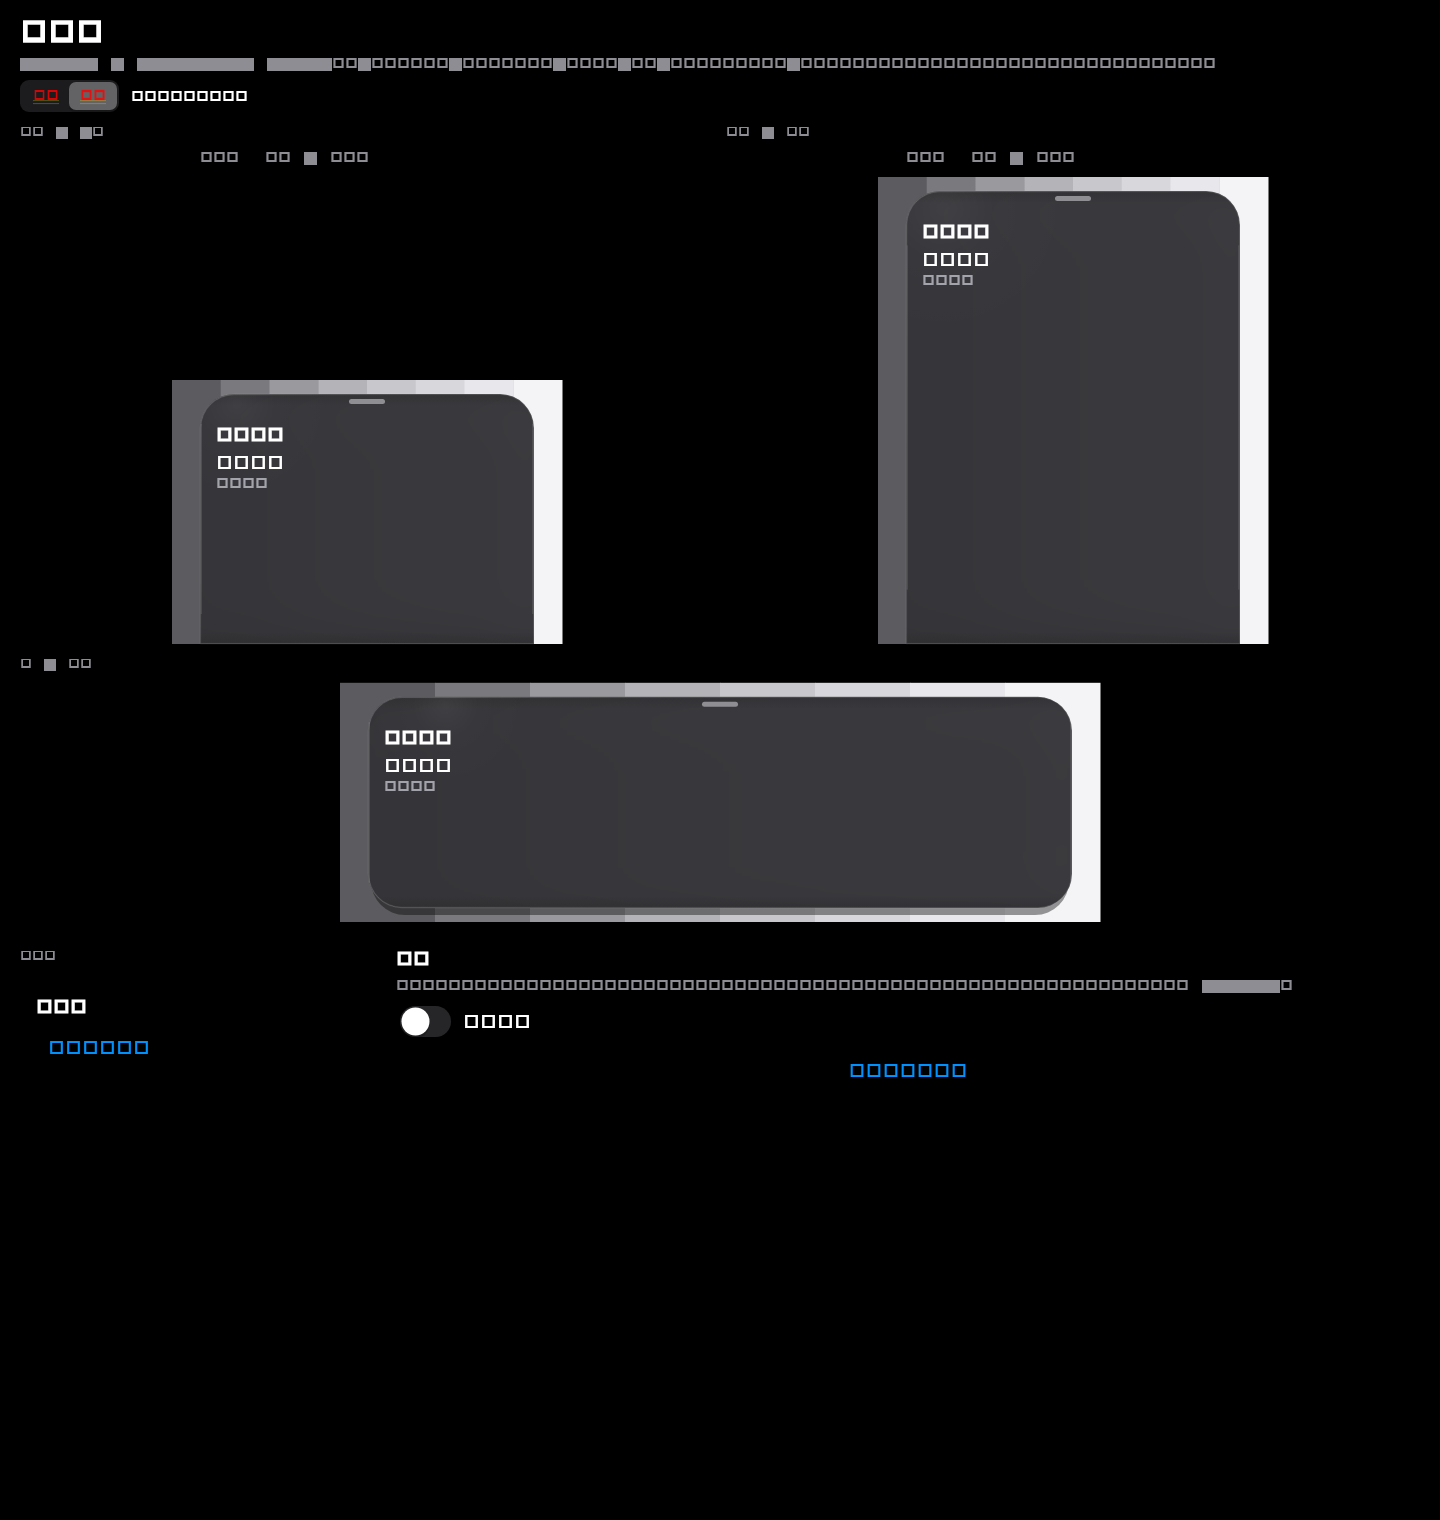
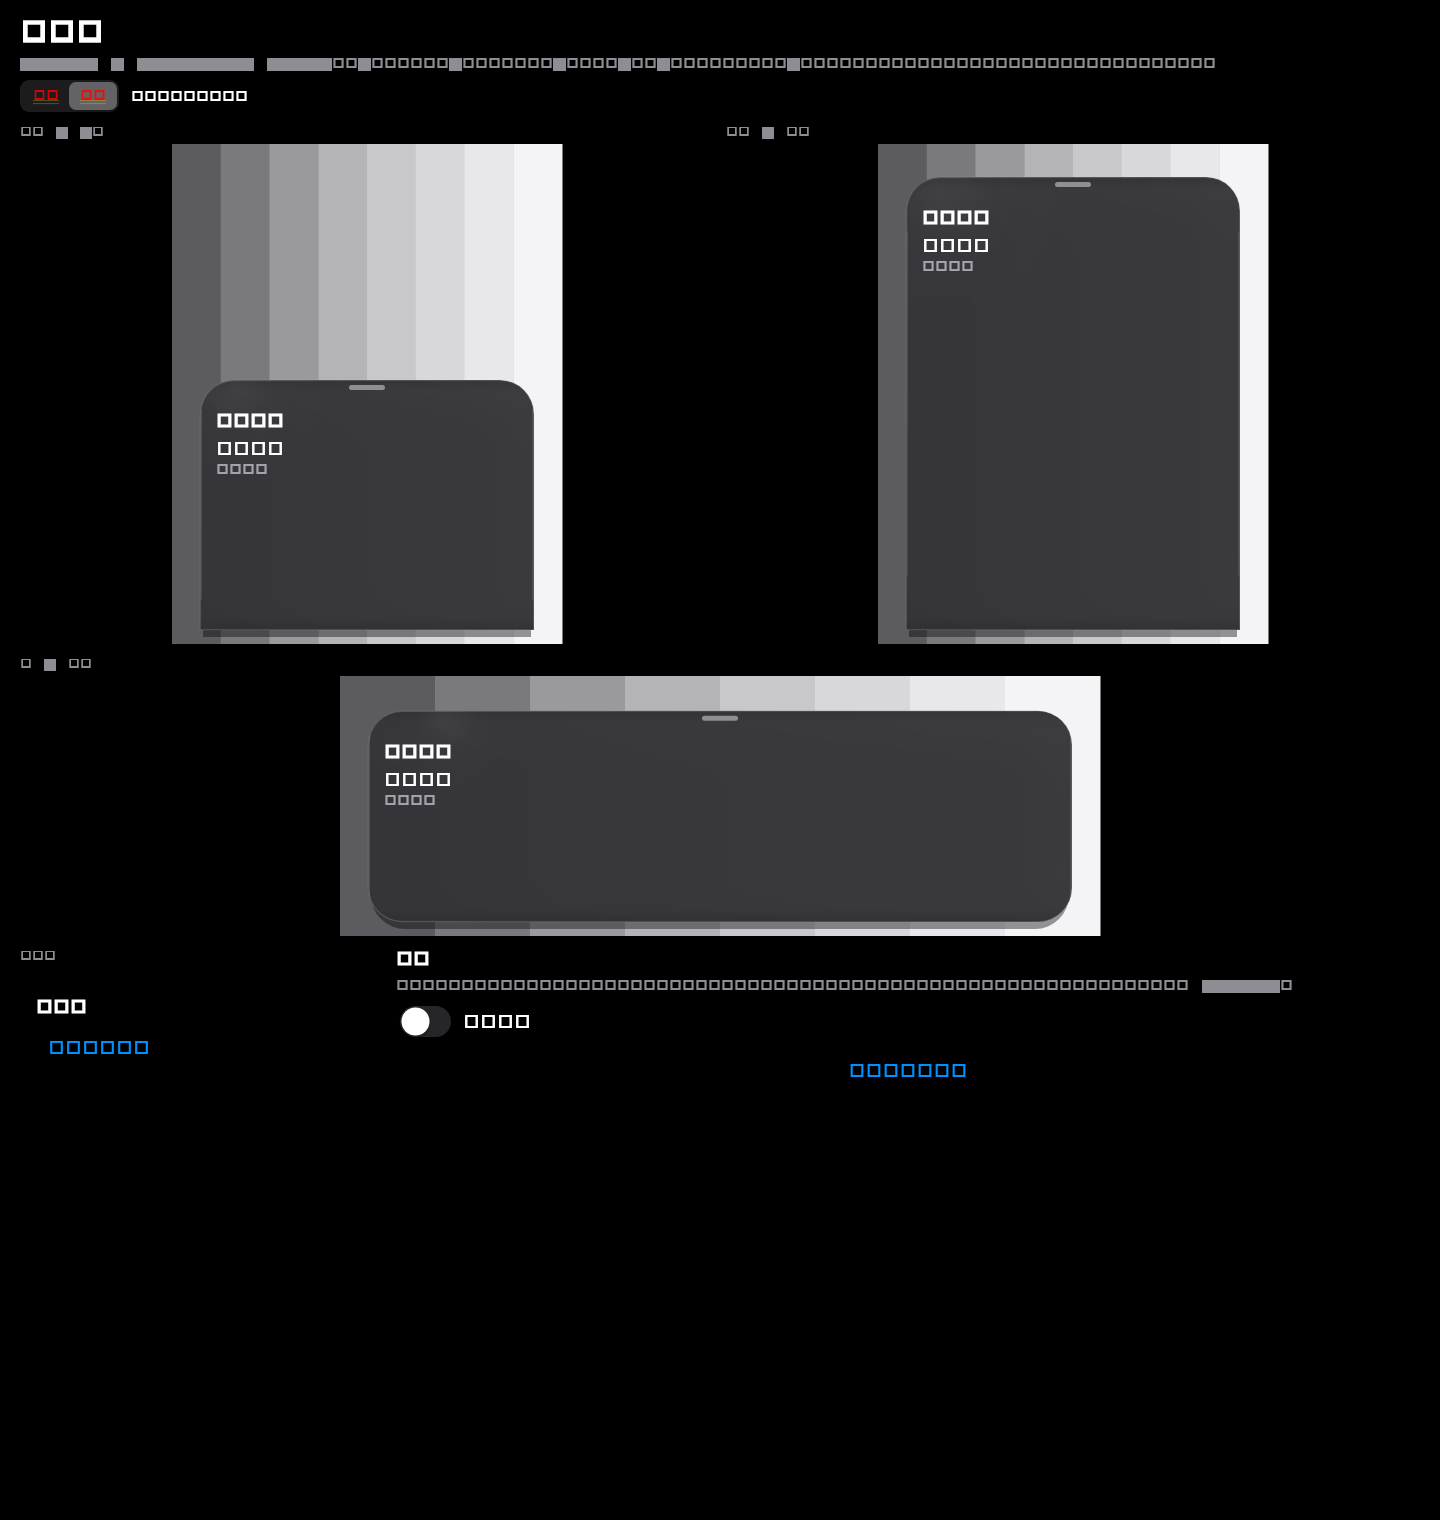
按材质页 Thick 的 Stack 装配工作表
条纹作为同一个 Stack 的底层，GlassSurface thick 直接盖在上面。去掉中间的定位裁剪和不透明命中层，弹出的工作表也把条纹画在这条路由的 Stack 底。

diff --git a/example/lib/pages/sheets_page.dart b/example/lib/pages/sheets_page.dart
@@ -416,54 +416,46 @@ class _Specimen extends StatelessWidget {
           safeArea: safeArea,
           keyboardInset: 0,
         );
-        final height = metrics.heightFor(detent);
-        final natural = Rect.fromLTWH(
-          metrics.left,
-          constraints.maxHeight - metrics.bottomOffset - height,
+        final sheetW = mathMin(
           metrics.width,
-          height,
+          mathMax(0, constraints.maxWidth - _stripePadH * 2),
         );
-        // Materials Thick is a short card inset 28×14 inside its stripe
-        // field. A sheet that covers the field edge to edge reads as a
-        // solid plate: the sharp bands stop, and Thick's veil hides the
-        // rest. Pull the specimen in until that same frame fits.
-        final platter = _insetPlatterToFitFrame(
-          natural,
-          Size(constraints.maxWidth, constraints.maxHeight),
+        final sheetH = mathMin(
+          metrics.heightFor(detent),
+          mathMax(0, constraints.maxHeight - _stripePadV * 2),
         );
-        final field = _stripeFieldAround(
-          platter,
-          attachedToBottom: metrics.attachedToBottom,
-        );
+        final side = (constraints.maxWidth - sheetW) / 2;
+        // Materials Thick swatch: stripes are the stack's bottom child,
+        // GlassSurface sits in the padding directly above them. No opaque
+        // box and no clip between the two.
         return Stack(
           key: stageKey,
           fit: StackFit.expand,
-          clipBehavior: Clip.none,
           children: [
-            Positioned.fromRect(
-              rect: field,
-              child: const CustomPaint(painter: _SheetStripePainter()),
+            CustomPaint(
+              painter: _SheetStripePainter(
+                left: side - _stripePadH,
+                width: sheetW + _stripePadH * 2,
+              ),
             ),
-            if (platter.top > 22)
-              Positioned(
-                top: 4,
-                left: platter.left,
-                width: platter.width,
-                child: Text(
-                  '收件箱  今天 · 已置顶',
-                  maxLines: 1,
-                  overflow: TextOverflow.ellipsis,
-                  style: LingyunTextStyles.footnote(
-                    color: colors.labels.secondary,
+            Padding(
+              padding: EdgeInsets.fromLTRB(
+                side,
+                _stripePadV,
+                side,
+                _stripePadV,
+              ),
+              child: Align(
+                alignment: Alignment.bottomCenter,
+                child: SizedBox(
+                  width: sheetW,
+                  height: sheetH,
+                  child: LingyunSheet(
+                    attachedToBottom: metrics.attachedToBottom,
+                    grabberLabel: '抓手',
+                    child: _specimenBody(colors),
                   ),
                 ),
-              ),
-            Positioned.fromRect(
-              rect: platter,
-              child: LingyunSheet(
-                attachedToBottom: metrics.attachedToBottom,
-                grabberLabel: '抓手',
-                child: _specimenBody(colors),
               ),
             ),
           ],
@@ -557,64 +549,32 @@ double mathMin(double a, double b) => a < b ? a : b;
 const double _stripePadH = 28;
 const double _stripePadV = 14;
 
-/// Shrink [platter] until a Materials-style stripe frame fits in [stage].
-///
-/// Compact metrics are full-bleed, so the frame would otherwise be clipped
-/// off and the sharp bands would stop on the glass edge.
-Rect _insetPlatterToFitFrame(Rect platter, Size stage) {
-  var left = platter.left;
-  var right = platter.right;
-  var top = platter.top;
-  var bottom = platter.bottom;
-  if (left < _stripePadH) left = _stripePadH;
-  if (right > stage.width - _stripePadH) right = stage.width - _stripePadH;
-  if (top < _stripePadV) top = _stripePadV;
-  final attached = (stage.height - platter.bottom).abs() < 0.5;
-  if (!attached && bottom > stage.height - _stripePadV) {
-    bottom = stage.height - _stripePadV;
-  }
-  if (right < left) right = left;
-  if (bottom < top) bottom = top;
-  return Rect.fromLTRB(left, top, right, bottom);
-}
+double mathMax(double a, double b) => a > b ? a : b;
 
-Rect _stripeFieldAround(Rect platter, {required bool attachedToBottom}) {
-  return Rect.fromLTRB(
-    platter.left - _stripePadH,
-    platter.top - _stripePadV,
-    platter.right + _stripePadH,
-    platter.bottom + (attachedToBottom ? 0 : _stripePadV),
-  );
-}
-
-/// Stripe field drawn in the sheet route, same layer as the platter.
+/// Bands painted in the sheet route, as the stack child under the platter.
 ///
-/// The route does not sample the page under it, so the bands have to be
-/// painted here. They use the platter's own width, with the Materials
-/// frame around it, instead of one ramp stretched across the window.
+/// The route does not sample the page under it. [left] / [width] are the
+/// stripe field: the platter plus the Materials padding, not the window.
 Widget _sheetBackdrop(
   BuildContext context,
   LingyunSheetMetrics metrics,
   Rect platter,
 ) {
-  final field = _stripeFieldAround(
-    platter,
-    attachedToBottom: metrics.attachedToBottom,
-  );
-  return Stack(
-    clipBehavior: Clip.none,
-    children: [
-      Positioned.fromRect(
-        rect: field,
-        child: const CustomPaint(painter: _SheetStripePainter()),
-      ),
-    ],
+  return CustomPaint(
+    painter: _SheetStripePainter(
+      left: platter.left - _stripePadH,
+      width: platter.width + _stripePadH * 2,
+    ),
+    child: const SizedBox.expand(),
   );
 }
 
 /// Vertical bands. Same colors as the Materials page stripe field, not a token.
 class _SheetStripePainter extends CustomPainter {
-  const _SheetStripePainter();
+  const _SheetStripePainter({required this.left, required this.width});
+
+  final double left;
+  final double width;
 
   static const List<Color> bands = [
     Color(0xFF5C5C60),
@@ -629,18 +589,20 @@ class _SheetStripePainter extends CustomPainter {
 
   @override
   void paint(Canvas canvas, Size size) {
-    if (size.width <= 0 || size.height <= 0) return;
-    final band = size.width / bands.length;
+    if (size.width <= 0 || size.height <= 0 || width <= 0) return;
+    final band = width / bands.length;
     final paint = Paint();
     for (var i = 0; i < bands.length; i++) {
       paint.color = bands[i];
       canvas.drawRect(
-        Rect.fromLTWH(i * band, 0, band + 0.5, size.height),
+        Rect.fromLTWH(left + i * band, 0, band + 0.5, size.height),
         paint,
       );
     }
   }
 
   @override
-  bool shouldRepaint(covariant _SheetStripePainter oldDelegate) => false;
+  bool shouldRepaint(covariant _SheetStripePainter oldDelegate) {
+    return oldDelegate.left != left || oldDelegate.width != width;
+  }
 }

diff --git a/lib/src/widgets/lingyun_sheet.dart b/lib/src/widgets/lingyun_sheet.dart
@@ -843,29 +843,29 @@ class _LingyunSheetPanelState extends State<_LingyunSheetPanel>
                     : media.padding,
               ),
               child: Stack(
-                // Clip.none: a hard-edge clip on this stack would isolate
-                // the platter from the backdrop painted behind it.
-                clipBehavior: Clip.none,
+                // Same order as the Materials Thick swatch: the backdrop is
+                // the bottom of this stack, and the platter is the next
+                // child. Nothing opaque, and no extra clip, sits between
+                // them. A modal route cannot sample the page underneath.
+                fit: StackFit.expand,
                 children: [
-                  if (widget.backdrop != null)
-                    Positioned.fill(
-                      child: widget.backdrop!(
-                        context,
-                        metrics,
-                        Rect.fromLTWH(
-                          metrics.left,
-                          constraints.maxHeight - metrics.bottomOffset - visual,
-                          metrics.width,
-                          visual,
-                        ),
-                      ),
-                    ),
                   Positioned.fill(
                     child: GestureDetector(
                       behavior: HitTestBehavior.opaque,
                       onTap: widget.dismissible ? _dismiss : null,
                     ),
                   ),
+                  if (widget.backdrop != null)
+                    widget.backdrop!(
+                      context,
+                      metrics,
+                      Rect.fromLTWH(
+                        metrics.left,
+                        constraints.maxHeight - metrics.bottomOffset - visual,
+                        metrics.width,
+                        visual,
+                      ),
+                    ),
                   Positioned(
                     left: metrics.left,
                     width: metrics.width,

diff --git a/docs/SHEETS.md b/docs/SHEETS.md
@@ -74,7 +74,7 @@ final result = await showLingyunSheet<String>(
 
 - 紧凑 · 中档、紧凑 · 高档：390 宽的示意框
 - 宽或常规 · 高档：跟窗口走的浮起卡片
-- 盘面层叠和材质页 Thick 一样：竖向条纹在下，半透明 Thick 在上。条纹场只比盘面大一圈（左右 28、上下 14，与材质页样张相同），八条深浅按这一圈的宽度铺开。弹出的工作表把同一圈画在路由里，滤镜才能采到；铺满整窗会只盖住中间灰，看起来像实心板。条纹和玻璃之间没有外层裁剪。
+- 盘面层叠和材质页 Thick 一样：同一个 `Stack` 里竖向条纹在底，`GlassSurface(material: MaterialTier.thick)` 用左右 28、上下 14 的留白直接盖上。中间没有不透明块，也没有外层 Clip。弹出的工作表把同一组条纹画在这条路由的 Stack 底，滤镜才能采到。
 - 紧凑框里的「在紧凑框弹出」和「模拟键盘」
 - 「在当前窗口弹出」用真实窗口的分档
 
